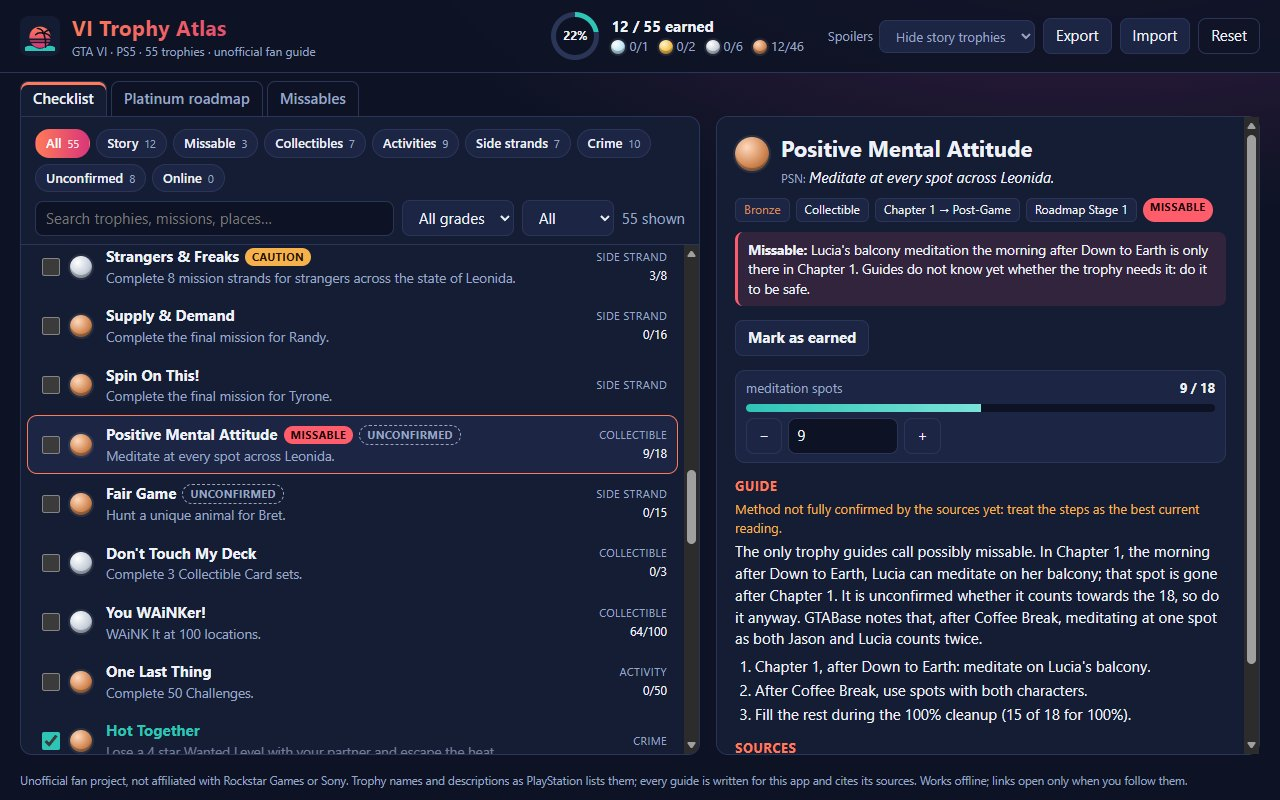
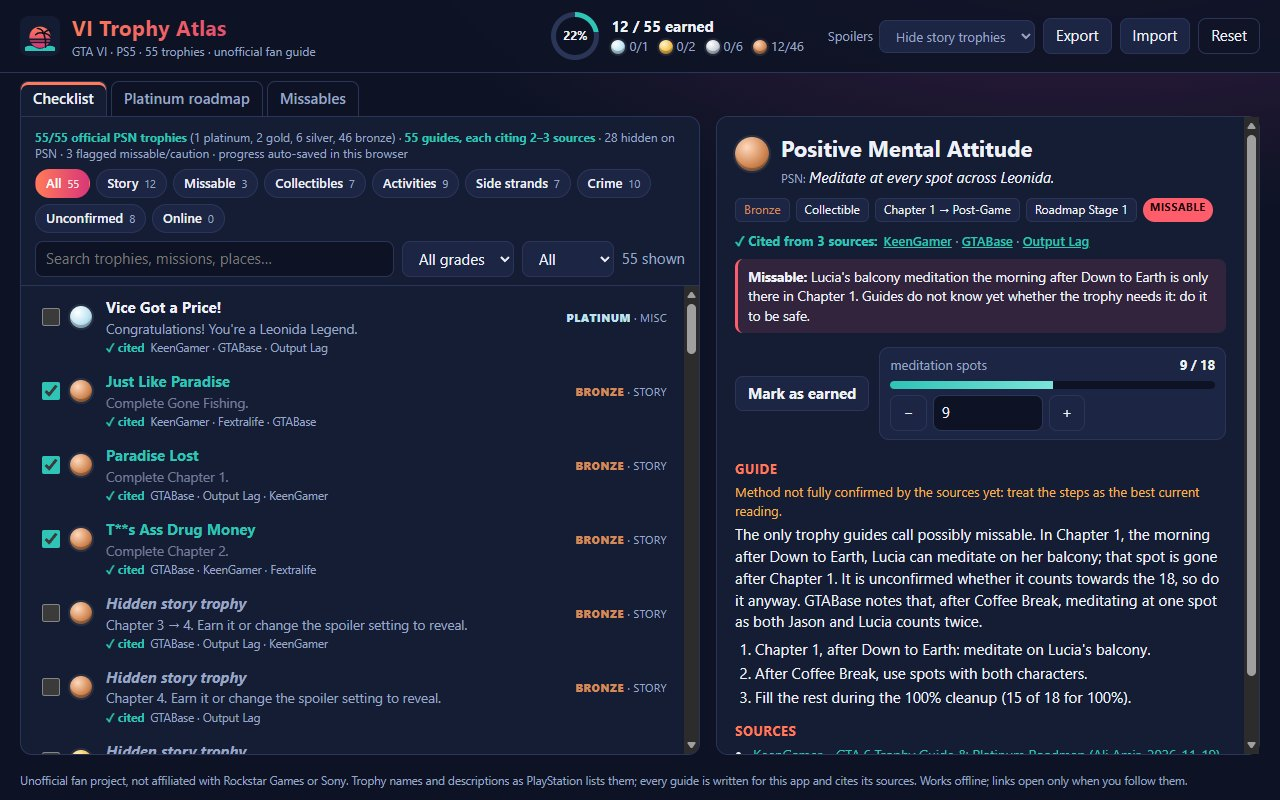
Round 2: citations, grades and spoilers visible at a glance
- Checklist rows show the grade as a word, the kind, and the cited sources
- Coverage line counted from trophies.json (55/55, grades, hidden, cited guides)
- Guide panel: "Cited from" links under the chips; earn button and counter on one line
- Spoiler reveal: button hides after use, note says name stays hidden
- Roadmap: 7-stage track with per-stage progress and missable marker
- Screenshots retaken: cover from the list top, shot 4 shows the spoiler setting

diff --git a/app/css/app.css b/app/css/app.css
@@ -71,6 +71,8 @@ button:focus-visible, select:focus-visible, input:focus-visible, .row:focus-visi
 .pane { overflow: auto; padding: 16px 20px; }
 .filterbar { padding: 12px 14px 8px; border-bottom: 1px solid var(--line); }
 .chips-row { display: flex; flex-wrap: wrap; gap: 6px; }
+.coverage { margin: 0 0 8px; font-size: 12px; color: var(--muted); line-height: 1.35; }
+.coverage strong { color: var(--teal); }
 .fchip { padding: 4px 10px; border-radius: 999px; font-size: 13px; font-weight: 600; }
 .fchip small { margin-left: 6px; color: var(--muted); font-weight: 400; }
 .fchip.on { background: linear-gradient(90deg, var(--coral), var(--magenta)); border-color: transparent; color: #fff; }
@@ -80,7 +82,7 @@ button:focus-visible, select:focus-visible, input:focus-visible, .row:focus-visi
 
 /* rows */
 .rows { list-style: none; margin: 0; padding: 4px 6px; overflow: auto; flex: 1; }
-.row { display: grid; grid-template-columns: 22px 26px minmax(0, 1fr) auto; gap: 10px; align-items: center; padding: 8px 10px; border-radius: 10px; cursor: pointer; border: 1px solid transparent; }
+.row { display: grid; grid-template-columns: 22px 26px minmax(0, 1fr) auto; gap: 10px; align-items: center; padding: 6px 10px; border-radius: 10px; cursor: pointer; border: 1px solid transparent; }
 .row:hover { background: var(--panel-2); }
 .row.is-selected { background: var(--panel-2); border-color: var(--coral); }
 .row.is-earned .row-name { color: var(--teal); }
@@ -92,6 +94,12 @@ button:focus-visible, select:focus-visible, input:focus-visible, .row:focus-visi
 .row-desc { color: var(--muted); font-size: 13.5px; white-space: nowrap; overflow: hidden; text-overflow: ellipsis; }
 .row-meta { display: flex; flex-direction: column; align-items: flex-end; gap: 2px; font-size: 12px; color: var(--muted); }
 .count { font-variant-numeric: tabular-nums; color: var(--text); }
+.grade-word { text-transform: uppercase; letter-spacing: 0.5px; font-size: 11px; font-weight: 800; }
+.grade-word.grade-platinum { color: var(--platinum); } .grade-word.grade-gold { color: var(--gold); }
+.grade-word.grade-silver { color: var(--silver); } .grade-word.grade-bronze { color: var(--bronze); }
+.meta-line { white-space: nowrap; }
+.row-cite { grid-column: 3 / -1; margin-top: -8px; font-size: 11.5px; color: var(--muted); white-space: nowrap; overflow: hidden; text-overflow: ellipsis; }
+.cite-mark { color: var(--teal); font-weight: 700; margin-right: 6px; }
 .empty { padding: 24px; color: var(--muted); }
 
 /* medals & badges */
@@ -120,7 +128,12 @@ button:focus-visible, select:focus-visible, input:focus-visible, .row:focus-visi
 .callout { border-radius: 8px; padding: 8px 10px; font-size: 13.5px; margin: 8px 0; }
 .callout-miss { background: rgb(255 93 108 / 0.12); border-left: 3px solid var(--miss); }
 .callout-caution { background: rgb(245 177 76 / 0.12); border-left: 3px solid var(--caution); }
-.earn-btn { margin: 6px 0; font-weight: 700; }
+.earn-btn { margin: 6px 0; font-weight: 700; white-space: nowrap; }
+.track-line { display: flex; gap: 10px; align-items: center; }
+.track-line .counter { flex: 1; margin: 6px 0; }
+.saved-note { font-size: 12.5px; }
+.cited-from { margin: 0 0 6px; font-size: 13px; color: var(--muted); }
+.cited-from a { color: var(--teal); font-weight: 600; }
 .earn-btn.on { background: var(--teal); color: #04201d; border-color: var(--teal); }
 .detail h3 { margin: 14px 0 4px; font-size: 13px; text-transform: uppercase; letter-spacing: 0.6px; color: var(--coral); }
 .guide { margin: 4px 0; }
@@ -138,6 +151,15 @@ button:focus-visible, select:focus-visible, input:focus-visible, .row:focus-visi
 .counter-ctl input { width: 110px; background: var(--bg); border: 1px solid var(--line); border-radius: 8px; padding: 4px 8px; }
 
 /* roadmap */
+.stage-track { list-style: none; margin: 0 0 8px; padding: 0; display: grid; grid-template-columns: repeat(7, 1fr); gap: 4px; }
+.track-cell { position: relative; background: var(--panel-2); border: 1px solid var(--line); border-top: 3px solid var(--coral); border-radius: 8px; padding: 5px 6px 8px; display: flex; flex-direction: column; gap: 1px; }
+.track-cell.has-miss { border-top-color: var(--miss); }
+.track-cell.is-done { border-top-color: var(--teal); }
+.track-num { font-weight: 800; font-size: 15px; }
+.track-name { font-size: 11px; color: var(--muted); line-height: 1.2; }
+.track-count { font-size: 13px; font-weight: 700; color: var(--teal); font-variant-numeric: tabular-nums; }
+.track-bar { position: absolute; left: 6px; right: 6px; bottom: 3px; height: 3px; background: var(--bg); border-radius: 99px; overflow: hidden; }
+.track-bar span { display: block; height: 100%; background: var(--teal); }
 .facts { display: grid; grid-template-columns: repeat(5, 1fr); gap: 8px; margin-bottom: 8px; }
 .fact { background: var(--panel-2); border: 1px solid var(--line); border-radius: 10px; padding: 8px 10px; display: flex; flex-direction: column; }
 .fact strong { font-size: 19px; color: var(--gold); }

diff --git a/app/js/view-detail.js b/app/js/view-detail.js
@@ -2,7 +2,7 @@
 
 import { h, add, formatCount } from './dom.js';
 import { isConcealed, KIND_LABELS } from './filters.js';
-import { gradeMedal, missableBadge } from './view-list.js';
+import { gradeMedal, missableBadge, sourceShortName } from './view-list.js';
 
 export function renderDetail(panel, trophy, ctx) {
   panel.replaceChildren();
@@ -24,14 +24,20 @@ export function renderDetail(panel, trophy, ctx) {
       trophy.hidden ? h('span', { class: 'chip', text: 'Hidden on PSN' }) : null,
       missableBadge(trophy),
     ),
+    renderCitedFrom(trophy, ctx),
     trophy.missNote ? h('div', { class: `callout ${trophy.missable === 'missable' ? 'callout-miss' : 'callout-caution'}` }, h('strong', { text: trophy.missable === 'missable' ? 'Missable: ' : 'Caution: ' }), trophy.missNote) : null,
-    h('button', { class: `earn-btn${earned ? ' on' : ''}`, type: 'button', onclick: () => ctx.onToggle(trophy.id, !earned) }, earned ? '✓ Earned' : 'Mark as earned'),
-    trophy.count && trophy.id !== 1 ? renderCounter(trophy, ctx, earned) : null,
+    h(
+      'div',
+      { class: 'track-line' },
+      h('button', { class: `earn-btn${earned ? ' on' : ''}`, type: 'button', onclick: () => ctx.onToggle(trophy.id, !earned) }, earned ? '✓ Earned' : 'Mark as earned'),
+      trophy.count && trophy.id !== 1 ? renderCounter(trophy, ctx, earned) : h('span', { class: 'muted saved-note', text: 'Saved in this browser · Export to back up' }),
+    ),
   );
-  if (concealed) {
+  if (concealed && !ctx.revealed.has(trophy.id)) {
     add(panel, h('button', { class: 'ghost', type: 'button', onclick: () => ctx.onReveal(trophy.id) }, 'Show the guide anyway'));
-    if (!ctx.revealed.has(trophy.id)) return;
+    return;
   }
+  if (concealed) add(panel, h('p', { class: 'unconf-note' }, 'Guide shown on request: the trophy name and description stay hidden until you earn it.'));
   add(panel, 
     h('h3', { text: 'Guide' }),
     trophy.verified === 'unconfirmed' ? h('p', { class: 'unconf-note' }, 'Method not fully confirmed by the sources yet: treat the steps as the best current reading.') : null,
@@ -58,6 +64,12 @@ function renderCounter(trophy, ctx, earned) {
       h('button', { type: 'button', 'aria-label': 'Increase', onclick: () => ctx.onCount(trophy.id, value + step) }, '+'),
     ),
   );
+}
+
+// One line under the chips naming every guide this trophy's text draws on, each a link the reader may follow.
+function renderCitedFrom(trophy, ctx) {
+  const links = trophy.sources.map((key) => h('a', { href: ctx.sources[key].url, target: '_blank', rel: 'noopener noreferrer', text: sourceShortName(ctx.sources[key]) }));
+  return h('p', { class: 'cited-from' }, h('span', { class: 'cite-mark', text: `✓ Cited from ${links.length} sources:` }), ...links.flatMap((a, i) => (i ? [' · ', a] : [a])));
 }
 
 function renderSource(src) {

diff --git a/app/js/view-roadmap.js b/app/js/view-roadmap.js
@@ -8,9 +8,28 @@ import { gradeMedal, missableBadge, trophyTitle } from './view-list.js';
 export function renderRoadmap(container, roadmap, trophies, ctx) {
   fill(container, 
     h('div', { class: 'facts' }, roadmap.facts.map((f) => h('div', { class: 'fact' }, h('strong', { text: f.value }), h('span', { text: f.label }), h('small', { text: f.sources.map((s) => ctx.sources[s].name.split(' – ')[0]).join(', ') })))),
+    renderStageTrack(roadmap.stages, trophies, ctx),
     h('p', { class: 'muted', text: roadmap.summary }),
     h('ol', { class: 'stages' }, roadmap.stages.map((stage) => renderStage(stage, trophies.filter((t) => t.stage === stage.stage), ctx))),
   );
+}
+
+// The whole route at a glance: one cell per stage, in play order, with its share of trophies earned
+// and a red edge on the stage that holds a missable trophy.
+function renderStageTrack(stages, trophies, ctx) {
+  return h('ol', { class: 'stage-track', 'aria-label': 'Roadmap stages' }, stages.map((stage) => {
+    const list = trophies.filter((t) => t.stage === stage.stage);
+    const done = list.filter((t) => ctx.isEarned(t.id)).length;
+    const risky = list.some((t) => t.missable === 'missable');
+    return h(
+      'li',
+      { class: `track-cell${risky ? ' has-miss' : ''}${done === list.length ? ' is-done' : ''}` },
+      h('span', { class: 'track-num', text: stage.stage }),
+      h('span', { class: 'track-name', text: stage.title.split(':')[0] }),
+      h('span', { class: 'track-count', text: `${done}/${list.length}` }),
+      h('span', { class: 'track-bar' }, h('span', { style: `width:${list.length ? Math.round((done / list.length) * 100) : 0}%` })),
+    );
+  }));
 }
 
 function renderStage(stage, list, ctx) {

diff --git a/app/js/main.js b/app/js/main.js
@@ -86,6 +86,22 @@ function renderSummary() {
   );
 }
 
+// The coverage line: what the data holds, counted from trophies.json, never typed in by hand.
+function renderCoverage() {
+  const cited = trophies.filter((t) => t.guide && t.sources.length > 0);
+  const minSrc = Math.min(...cited.map((t) => t.sources.length));
+  const maxSrc = Math.max(...cited.map((t) => t.sources.length));
+  const hidden = trophies.filter((t) => t.hidden).length;
+  const grades = GRADE_ORDER.map((g) => `${trophies.filter((t) => t.grade === g).length} ${g}`).join(', ');
+  const missable = trophies.filter((t) => t.missable).length;
+  byId('coverage').replaceChildren(
+    h('strong', { text: `${trophies.length}/${trophies.length} official PSN trophies` }),
+    ` (${grades}) · `,
+    h('strong', { text: `${cited.length} guides, each citing ${minSrc}–${maxSrc} sources` }),
+    ` · ${hidden} hidden on PSN · ${missable} flagged missable/caution · progress auto-saved in this browser`,
+  );
+}
+
 function renderFilters() {
   byId('chips').replaceChildren(
     ...FILTERS.map((f) => h('button', { type: 'button', class: `fchip${ui.filter === f.id ? ' on' : ''}`, 'aria-pressed': String(ui.filter === f.id), onclick: () => { ui.filter = f.id; render(); } }, f.label, h('small', { text: countFor(trophies, f.id) }))),
@@ -102,6 +118,7 @@ function renderTabs() {
 
 function render() {
   renderSummary();
+  renderCoverage();
   renderFilters();
   renderTabs();
   const shown = filterTrophies(trophies, ui, (id) => isEarned(state, id), state.prefs.spoiler);

diff --git a/app/js/view-list.js b/app/js/view-list.js
@@ -64,8 +64,19 @@ function renderRow(t, ctx) {
       h('div', { class: 'row-title' }, h('span', { class: 'row-name', text: trophyTitle(t, concealed) }), missableBadge(t), t.verified === 'unconfirmed' ? h('span', { class: 'badge badge-unconf', text: 'Unconfirmed' }) : null),
       h('div', { class: 'row-desc', text: trophyDescription(t, concealed) }),
     ),
-    h('div', { class: 'row-meta' }, h('span', { class: 'kind', text: KIND_LABELS[t.kind] }), count ? h('span', { class: 'count', text: count }) : null),
+    h(
+      'div',
+      { class: 'row-meta' },
+      h('span', { class: 'meta-line' }, h('span', { class: `grade-word grade-${t.grade}`, text: t.grade }), ' · ', h('span', { class: 'kind', text: KIND_LABELS[t.kind] })),
+      count ? h('span', { class: 'count', text: count }) : null,
+    ),
+    h('div', { class: 'row-cite', title: 'Sources cited in this trophy guide' }, h('span', { class: 'cite-mark', text: '✓ cited' }), t.sources.map((key) => sourceShortName(ctx.sources[key])).join(' · ')),
   );
+}
+
+// "GTABase – GTA 6 Trophy Guide …" → "GTABase": the publisher part of a source's name.
+export function sourceShortName(src) {
+  return src.name.split(' – ')[0].replace(/ GTA VI Wiki$/, '');
 }
 
 function progressText(t, ctx) {

diff --git a/app/index.html b/app/index.html
@@ -41,6 +41,7 @@
   <section class="left">
     <div id="list-view">
       <div class="filterbar">
+        <p id="coverage" class="coverage"></p>
         <div id="chips" class="chips-row"></div>
         <div class="filter-line">
           <input id="search" type="search" placeholder="Search trophies, missions, places…" aria-label="Search">
